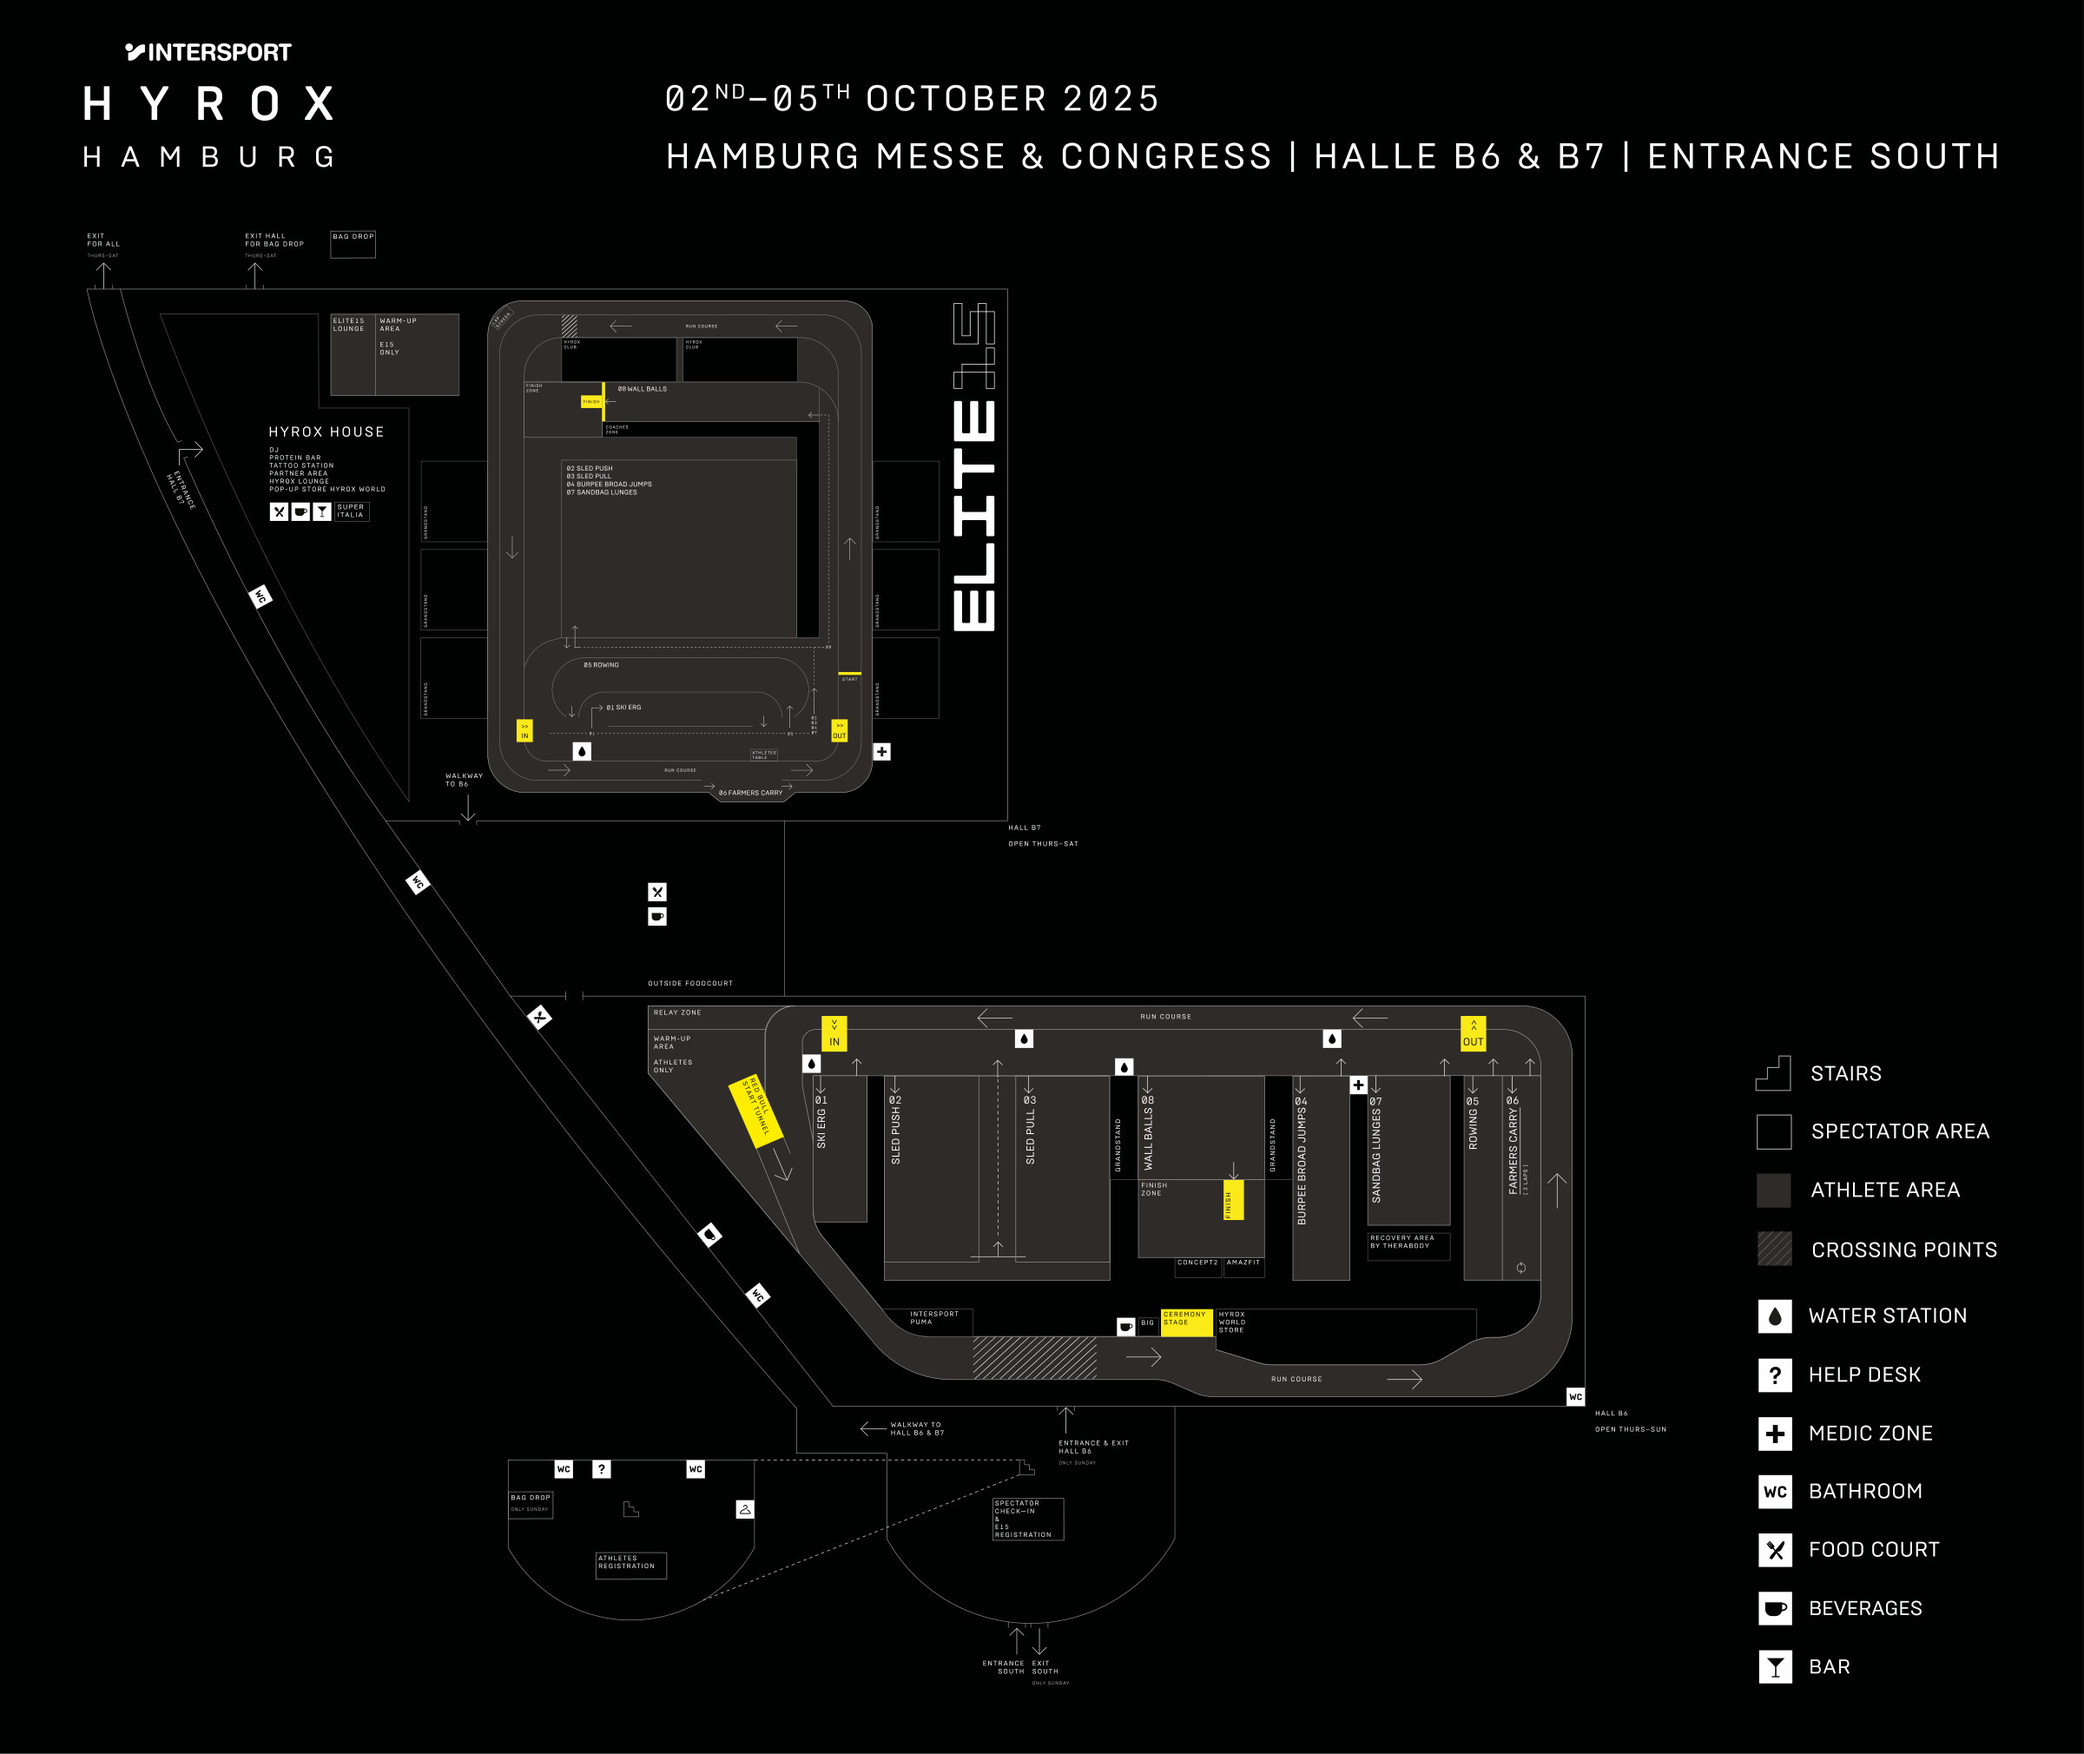
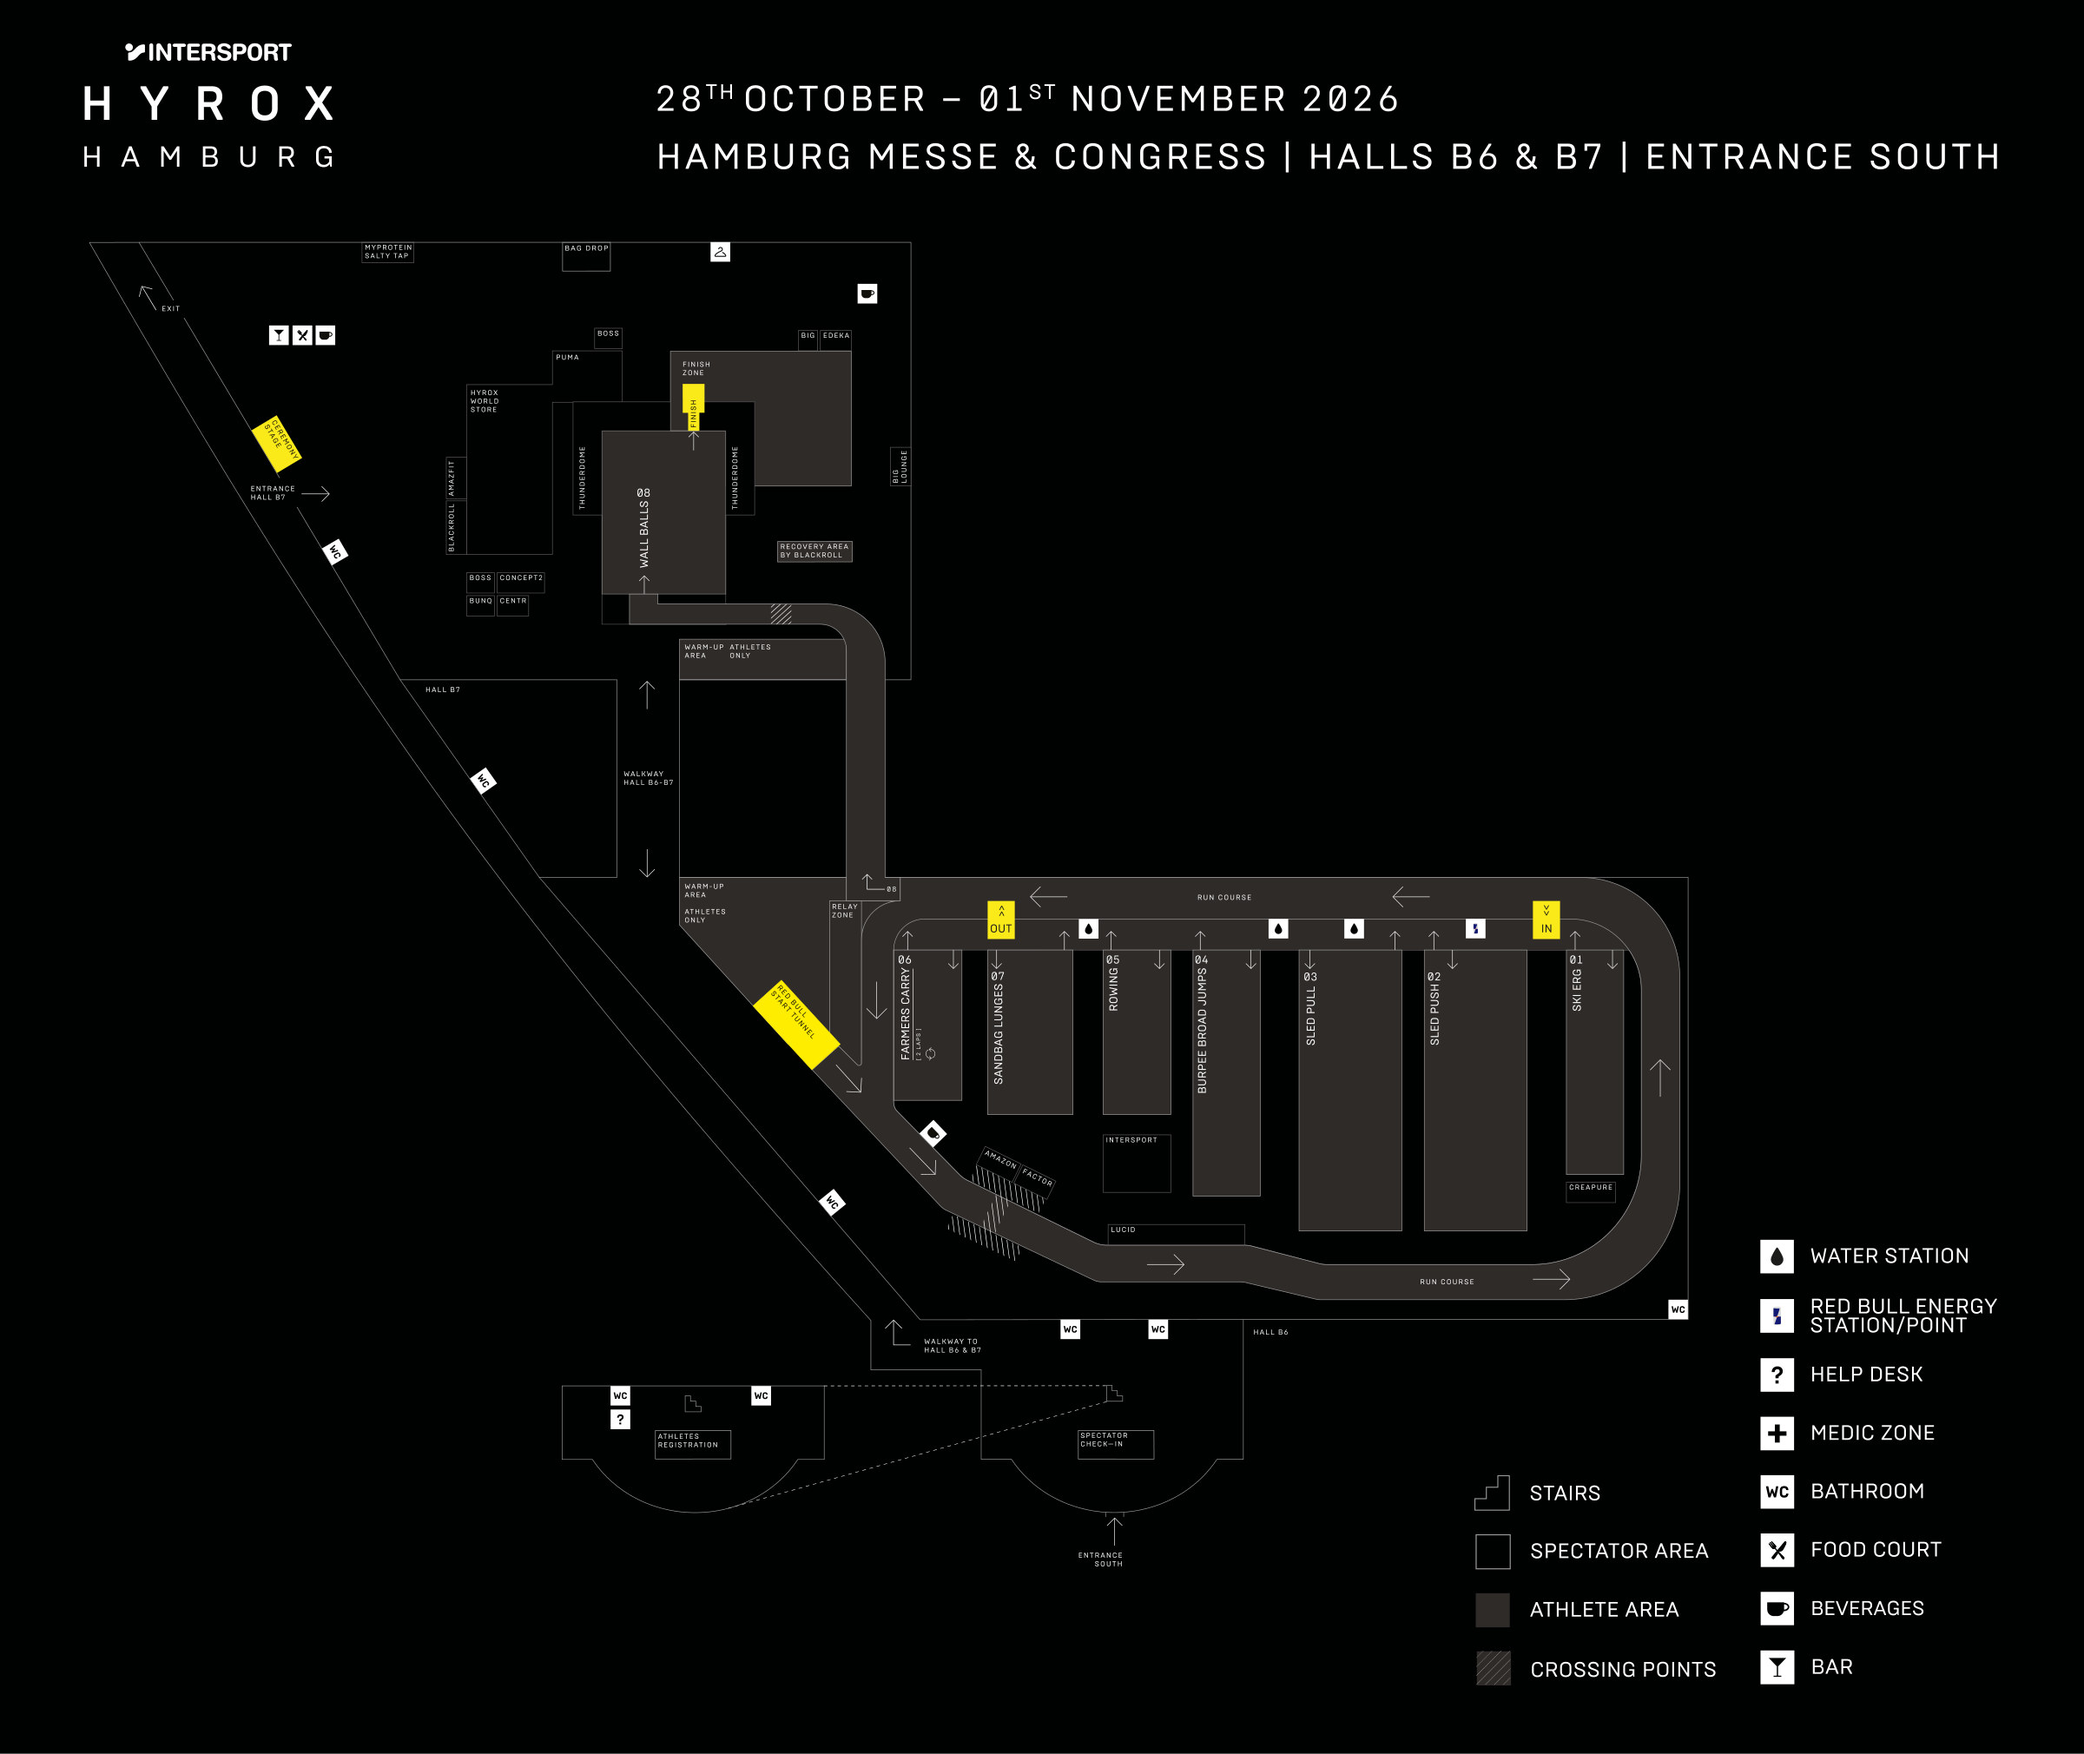
chore(events): auto-update venue maps + mobile images from Hyrox media library

diff --git a/src/data/events.ts b/src/data/events.ts
@@ -2256,7 +2256,7 @@ export const EVENTS: HyroxEvent[] = [
     endDate: "2026-11-01",
     venue: "NEC Birmingham",
     venueAddress: "North Avenue, Marston Green, Birmingham B40 1NT",
-    courseMapUrl: "https://hyrox.com/wp-content/uploads/2026/10/HYROX_YS_VenueMap_Birmingham-1.pdf",
+    courseMapUrl: "https://hyrox.com/wp-content/uploads/2026/10/HYROX_Birmingham_VenueMap_PRINT_2215x1864mm-5-1.pdf",
     courseMapImageUrl: "/images/events/birmingham-course-map-2026.jpg",
     officialUrl: HYROX_OFFICIAL,
     confirmed: true,
@@ -2284,7 +2284,7 @@ export const EVENTS: HyroxEvent[] = [
     endDate: "2026-11-01",
     venue: "Hamburg Messe",
     venueAddress: "Messeplatz 1, 20357 Hamburg",
-    courseMapUrl: "https://hyrox.com/wp-content/uploads/2025/09/HYROX_Hamburg_VenueMap_B6_B7_PRINT_2215x1864mm.pdf",
+    courseMapUrl: "https://hyrox.com/wp-content/uploads/2026/10/VenueMap-Hamburg-2026.pdf",
     courseMapImageUrl: "/images/events/hamburg-course-map-2026.jpg",
     officialUrl: HYROX_OFFICIAL,
     confirmed: true,
